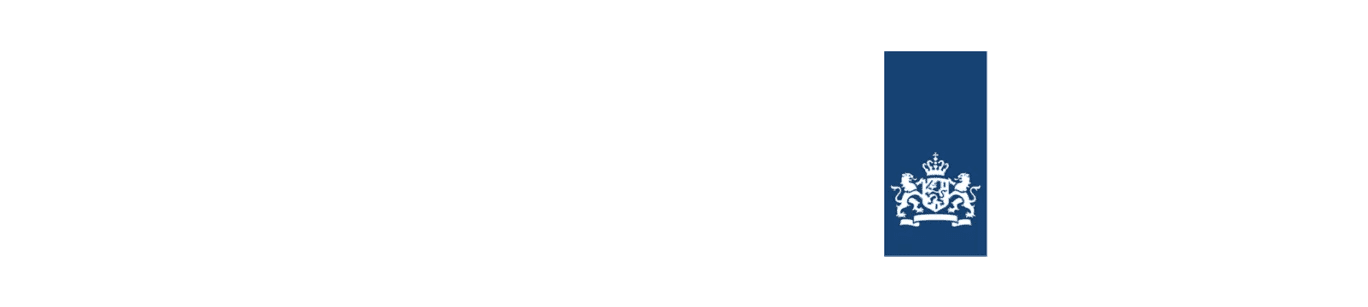
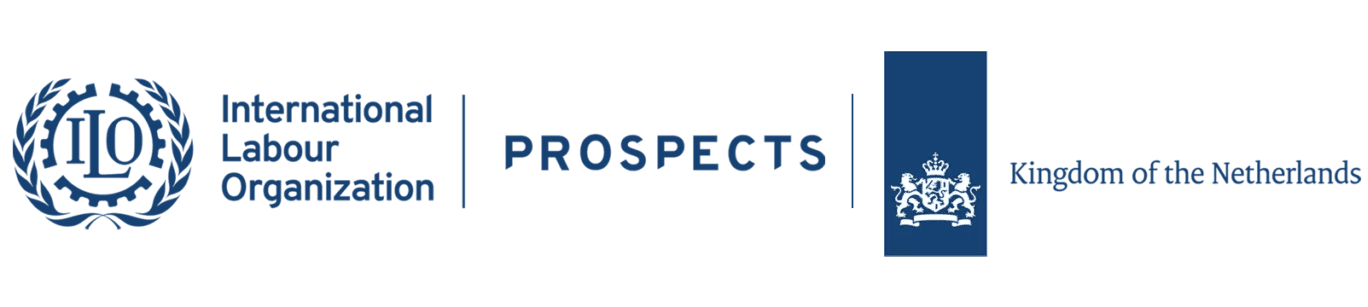
repo readme

Changed region(s): [[0.0, 0.2638, 0.3377, 0.7622], [0.3684, 0.4397, 0.614, 0.557], [0.7368, 0.5277, 1.0, 0.6156]]

diff --git a/README.md b/README.md
@@ -1,1 +1,132 @@
-# Udacity.3Fs.BusinessAnalytics
+<div align="center">
+<a href="https://digital3fs.com/" target="_blank">
+    <img src="assets/Freelance Fast Forward Program.png" alt="Udacity-Logo" width="550" height="150">
+  </a>
+
+# Business Analytics & Digital Freelancing Nanodegree Program
+
+  <a href="https://digital3fs.com/business-analytics/" target="_blank">
+    <img src="https://getlogo.net/wp-content/uploads/2023/03/udacity-logo-vector-2023.png" alt="Udacity-Logo" width="250" height="150">
+  </a>
+ 
+</div>
+
+<a name="readme-top"></a>
+
+---
+
+This repository contains all the tasks, course projects, and detailed summaries from the **Business Analytics & Digital Freelancing Nanodegree Program** which is part of the **2024 ILO Freelance Fast Forward Program**, powered by Udacity in partnership with the International Labour Organization (ILO).
+
+---
+
+## 📜 Program Overview  
+
+The **ILO Freelance Fast Forward Program** is a fully-funded initiative aimed at empowering residents of Egypt with technical and freelancing skills. Participants can choose from one of three tracks:  
+- **Business Analytics and Digital Freelancing**  
+- **Digital Marketing and Digital Freelancing**  
+- **Front-End Web Developer and Digital Freelancing**  
+
+The program is an exclusive opportunity provided by the International Labour Organization through its **PROSPECTS Programme** in Egypt, in collaboration with Udacity.
+
+---
+
+## 📂 Repository Structure
+- **`Course Summaries/`**  
+  Contains detailed summaries for each course, including key concepts, tools, and learning outcomes.
+  
+- **`Projects/`**  
+  Includes completed projects, source code, and any additional deliverables for the program.
+
+
+---
+
+## 📚 Course Progress Overview
+| **Course** | **Description** | **Status** |
+|------------|------------------|------------|
+| **Course 1**: Begin Your Journey | Orientation and program overview | ✅ Complete |
+| **Course 2**: Working with Data | Data dashboards and insights | ✅ Complete |
+| **Course 3**: Introduction to Data | Descriptive statistics, Excel modeling | 🔄 In Progress (99%) |
+| **Course 4**: Using SQL for Data Analysis | Core SQL commands, joins, aggregations | 🔄 In Progress |
+| **Course 5**: Data Visualization in Tableau | Building interactive dashboards | 🔄 In Progress |
+| **Course 6**: Freelancing 101 | Digital freelancing basics, marketing | ✅ Complete |
+| **Course 7**: Managing Freelancing Projects | Client sourcing, project management | 🔄 In Progress |
+| **Course 8**: Next Steps | Future opportunities and program conclusion | ✅ Complete |
+| **Course 9**: Resume Review (Optional) | Personalized resume feedback | ✅ Complete |
+
+---
+
+## 💻 Tools & Technologies
+- **Spreadsheet Software:** Excel, Google Sheets  
+- **Data Visualization:** Tableau  
+- **Databases:** SQL (MySQL, SQLite)  
+- **Programming Languages:** Python  
+
+---
+
+## 🌟 Projects
+### 📊 [Analyze NYSE Data](Projects/Analyze_NYSE_Data/)
+**Description:** Analyze financial performance data from NYSE-listed companies to create income statements and forecast financial metrics.  
+**Skills:** Data analysis, Excel modeling, financial forecasting.
+
+### 🎵 [Query a Digital Music Store Database](Projects/Query_Digital_Music_Store/)
+**Description:** Use SQL to optimize business practices for a digital music store.  
+**Skills:** SQL queries, aggregations, joins, data cleaning.
+
+### 📈 [Build a Data Visualization Project](Projects/Data_Visualization_Project/)
+**Description:** Create interactive Tableau dashboards to visualize data insights effectively.  
+**Skills:** Tableau, storytelling with data, dashboard design.
+
+### 📝 [Building a Professional Social Media Presence](Projects/Professional_Social_Media_Presence/)
+**Description:** Enhance LinkedIn profiles to attract relevant leads and grow a professional network.  
+**Skills:** Digital branding, profile optimization.
+
+---
+
+## 🚀 How to Use This Repository
+1. **Explore Summaries**: Navigate to `Course Summaries/` for a concise summary of each course content.
+2. **Review Projects**: Visit the `Projects/` folder to access detailed project descriptions and source files.
+
+---
+
+## 👩💻 About Me
+
+I am currently enhancing my skills in business analytics and digital freelancing. This repository showcases my progress, learning, and dedication to achieving excellence in the field.  
+
+<div align="center">
+  <a href="http://mayaramein.com/"><img src="https://i.imgur.com/uXPPWUP.png" title="MayarAmein" width=150  /></a>
+ 
+  ![](https://img.shields.io/badge/Software_Engineer-ffc53b?style=flat)  ![](https://img.shields.io/badge/Data_Scientist-ffc53b?style=flat)  ![](https://img.shields.io/badge/Generative_AI_Engineer-ffc53b?style=flat)
+
+
+</div>
+
+
+
+## 📧 Contact Me  
+
+If you have any questions or would like to collaborate, feel free to reach out:  
+
+<div align="center">
+
+  [![](https://img.shields.io/badge/Microsoft_Outlook-ebdcff?style=for-the-badge&logo=microsoft-outlook&logoColor=white)](mailto:mayar.amein@outlook.com) 
+ [![](https://img.shields.io/badge/website-ebdcff?style=for-the-badge&logo=About.me&logoColor=black)](http://mayaramein.com/)
+[![](https://img.shields.io/badge/LinkedIn-ebdcff?style=for-the-badge&logo=linkedin&logoColor=black)](https://linkedin.com/in/mayaramein) 
+
+
+</div>
+
+---
+
+Feel free to clone this repository and explore my journey through the Nanodegree program!
+
+---
+
+## 🏆 Acknowledgments  
+
+This repository is made possible by the support of:  
+- **Udacity**  
+- **International Labour Organization (ILO)**  
+- **PROSPECTS Programme**  
+
+
+<p align="right"><a href="#readme-top"><img src="https://uxwing.com/wp-content/themes/uxwing/download/arrow-direction/angle-circle-arrow-up-icon.svg"  width=40   /></a></p>
